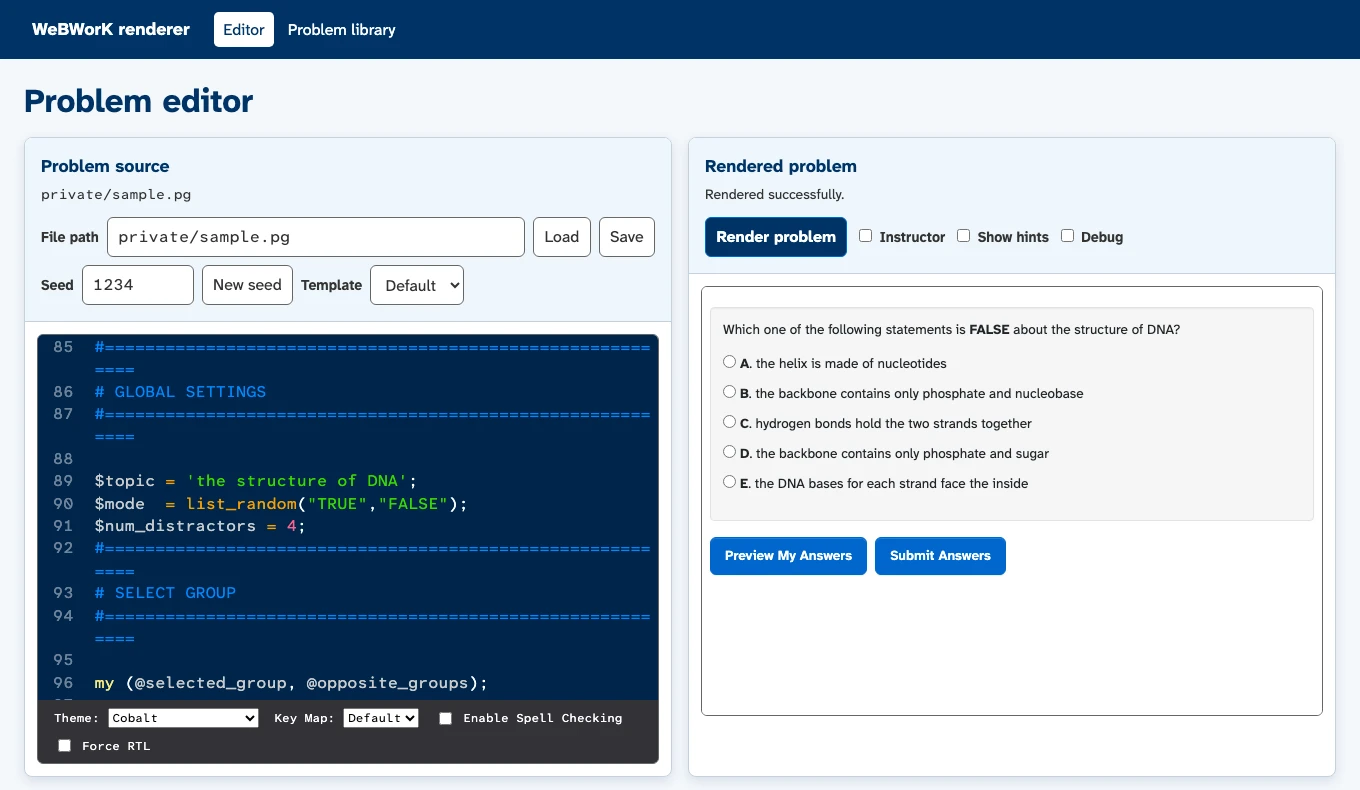
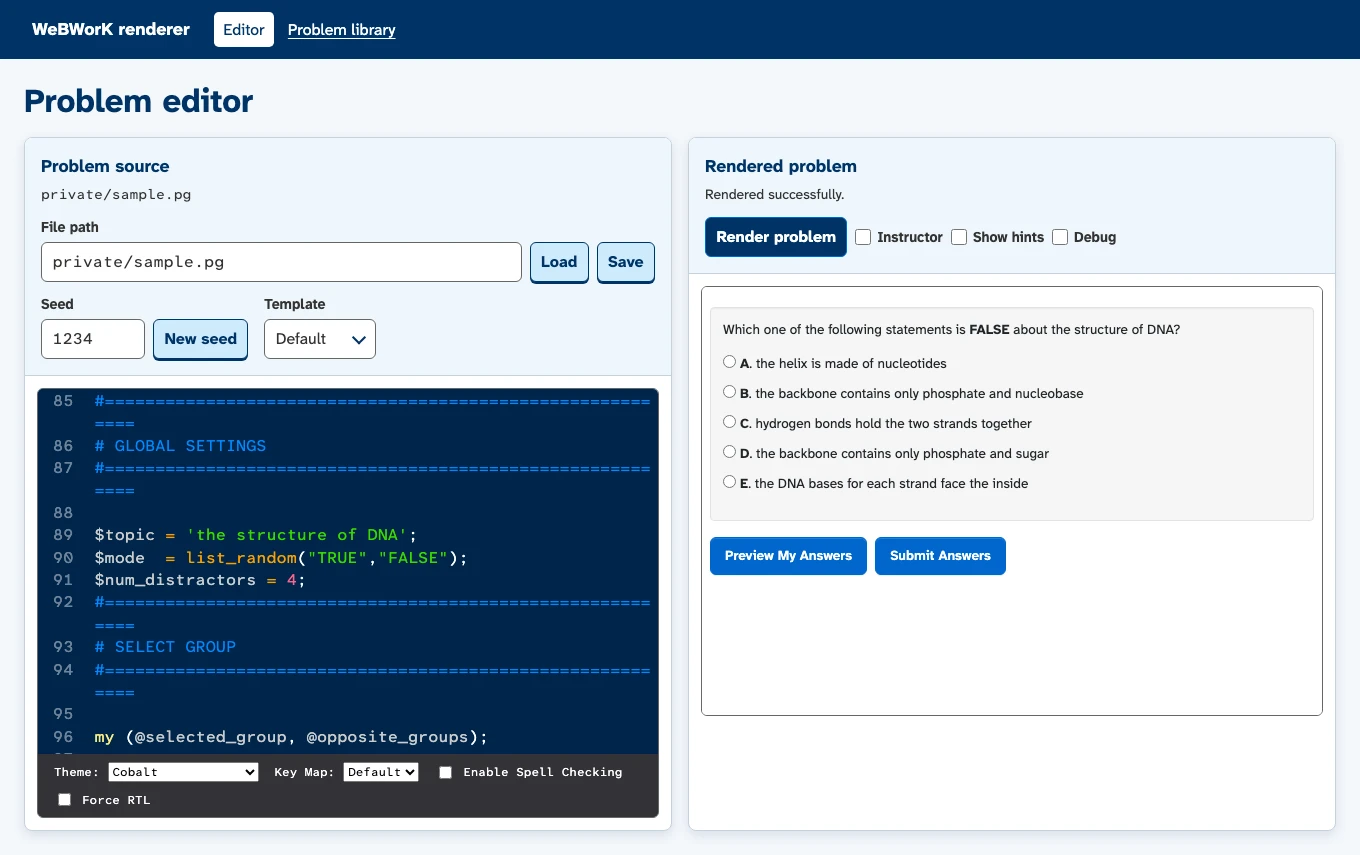
Distinguish editor buttons, fields, and the Template dropdown with se...
control shapes, and larger touch targets. Underline links to other renderer sections.

diff --git a/public/css/twocolumn.css b/public/css/twocolumn.css
@@ -47,8 +47,9 @@
   font-family: var(--renderer-font-ui, system-ui, sans-serif);
 }
 
-.editor-actions,
-.editor-field,
+.editor-settings,
+.editor-field-controls,
+.editor-file-buttons,
 .preview-controls {
   display: flex;
   flex-wrap: wrap;
@@ -56,12 +57,26 @@
   gap: 0.5rem;
 }
 
+.editor-actions,
 .editor-field {
-  min-inline-size: 0;
+  display: grid;
 }
 
-.editor-file-field {
-  flex: 1 1 16rem;
+.editor-actions,
+.editor-settings {
+  gap: 0.75rem 1rem;
+}
+
+.editor-settings {
+  align-items: start;
+}
+
+.editor-field {
+  min-inline-size: 0;
+  gap: 0.25rem;
+}
+
+.editor-file-buttons {
   flex-wrap: nowrap;
 }
 
@@ -70,6 +85,21 @@
   color: var(--renderer-text);
   font-size: 0.875rem;
   font-weight: 700;
+}
+
+.preview-controls label {
+  display: inline-flex;
+  align-items: center;
+  gap: 0.375rem;
+  min-block-size: 1.5rem;
+  cursor: pointer;
+}
+
+.preview-controls input {
+  inline-size: 1rem;
+  block-size: 1rem;
+  margin: 0;
+  accent-color: var(--renderer-navy);
 }
 
 .editor-actions input,
@@ -85,6 +115,24 @@
   font: inherit;
 }
 
+.editor-actions select,
+.editor-actions button,
+.preview-controls button {
+  cursor: pointer;
+}
+
+.editor-actions button {
+  border-color: var(--renderer-navy);
+  background: #ceebfd;
+  color: var(--renderer-navy);
+  box-shadow: 0 2px 0 var(--renderer-navy);
+  font-weight: 700;
+}
+
+.editor-actions button:active {
+  box-shadow: inset 0 2px 0 var(--renderer-navy);
+}
+
 .editor-actions input:focus-visible,
 .editor-actions select:focus-visible,
 .editor-actions button:focus-visible,
@@ -95,14 +143,47 @@
 }
 
 #sourceFilePath {
-  flex: 1;
+  flex: 1 1 12rem;
   min-inline-size: 0;
   font-family: var(--renderer-font-code, monospace);
 }
 
 #problemSeed {
-  inline-size: 7rem;
+  inline-size: 6.5rem;
   font-family: var(--renderer-font-code, monospace);
+}
+
+#template-select {
+  min-inline-size: 7rem;
+}
+
+@media (forced-colors: none) {
+  .editor-select {
+    display: grid;
+    align-items: center;
+  }
+
+  .editor-select select,
+  .editor-select::after {
+    grid-area: 1 / 1;
+  }
+
+  .editor-select select {
+    appearance: none;
+    padding-inline-end: 2rem;
+  }
+
+  .editor-select::after {
+    content: "";
+    justify-self: end;
+    inline-size: 0.5em;
+    block-size: 0.5em;
+    margin-inline-end: 0.75em;
+    border: solid var(--renderer-navy);
+    border-width: 0 2px 2px 0;
+    transform: translateY(-0.1em) rotate(45deg);
+    pointer-events: none;
+  }
 }
 
 #render-button {
@@ -112,17 +193,27 @@
   font-weight: 700;
 }
 
-.editor-actions button:hover,
-.preview-controls button:hover {
-  background: var(--renderer-surface-hover, #cce6ff);
+.editor-actions button:hover {
+  background: #bfd1e3;
 }
 
-#render-button:hover {
+.editor-actions select:hover {
+  border-color: var(--renderer-navy);
+}
+
+#render-button:is(:hover, :active) {
   background: var(--renderer-action-hover, #003366);
 }
 
 :is(.editor-actions, .preview-controls) button[aria-disabled="true"] {
   cursor: wait;
+}
+
+@media (pointer: coarse) {
+  .editor-actions :is(input, select, button),
+  .preview-controls :is(button, label) {
+    min-block-size: 3rem;
+  }
 }
 
 .editor-content,

diff --git a/public/css/navbar.css b/public/css/navbar.css
@@ -75,6 +75,11 @@ textarea {
   padding: 0.35rem 0.6rem;
 }
 
+.app-nav a:not([aria-current="page"]) {
+  text-decoration: underline;
+  text-underline-offset: 0.18em;
+}
+
 .app-nav a:hover,
 .app-nav a[aria-current="page"] {
   background: #ffffff;

diff --git a/docs/CHANGELOG.md b/docs/CHANGELOG.md
@@ -6,6 +6,8 @@
 
 - Refresh the editor, problem library, and HTML error pages with responsive layouts, keyboard
   controls, and inline feedback for file, render, and tag operations.
+- Distinguish editor buttons, fields, and the Template dropdown with separate labels, clearer
+  control shapes, and larger touch targets. Underline links to other renderer sections.
 - Update the static asset installation check page to match the renderer interface.
 - Bundle Atkinson Hyperlegible Next and Mono for the interface and generated problems. Load
   renderer defaults ahead of problem-authored styles so problems can override them.
